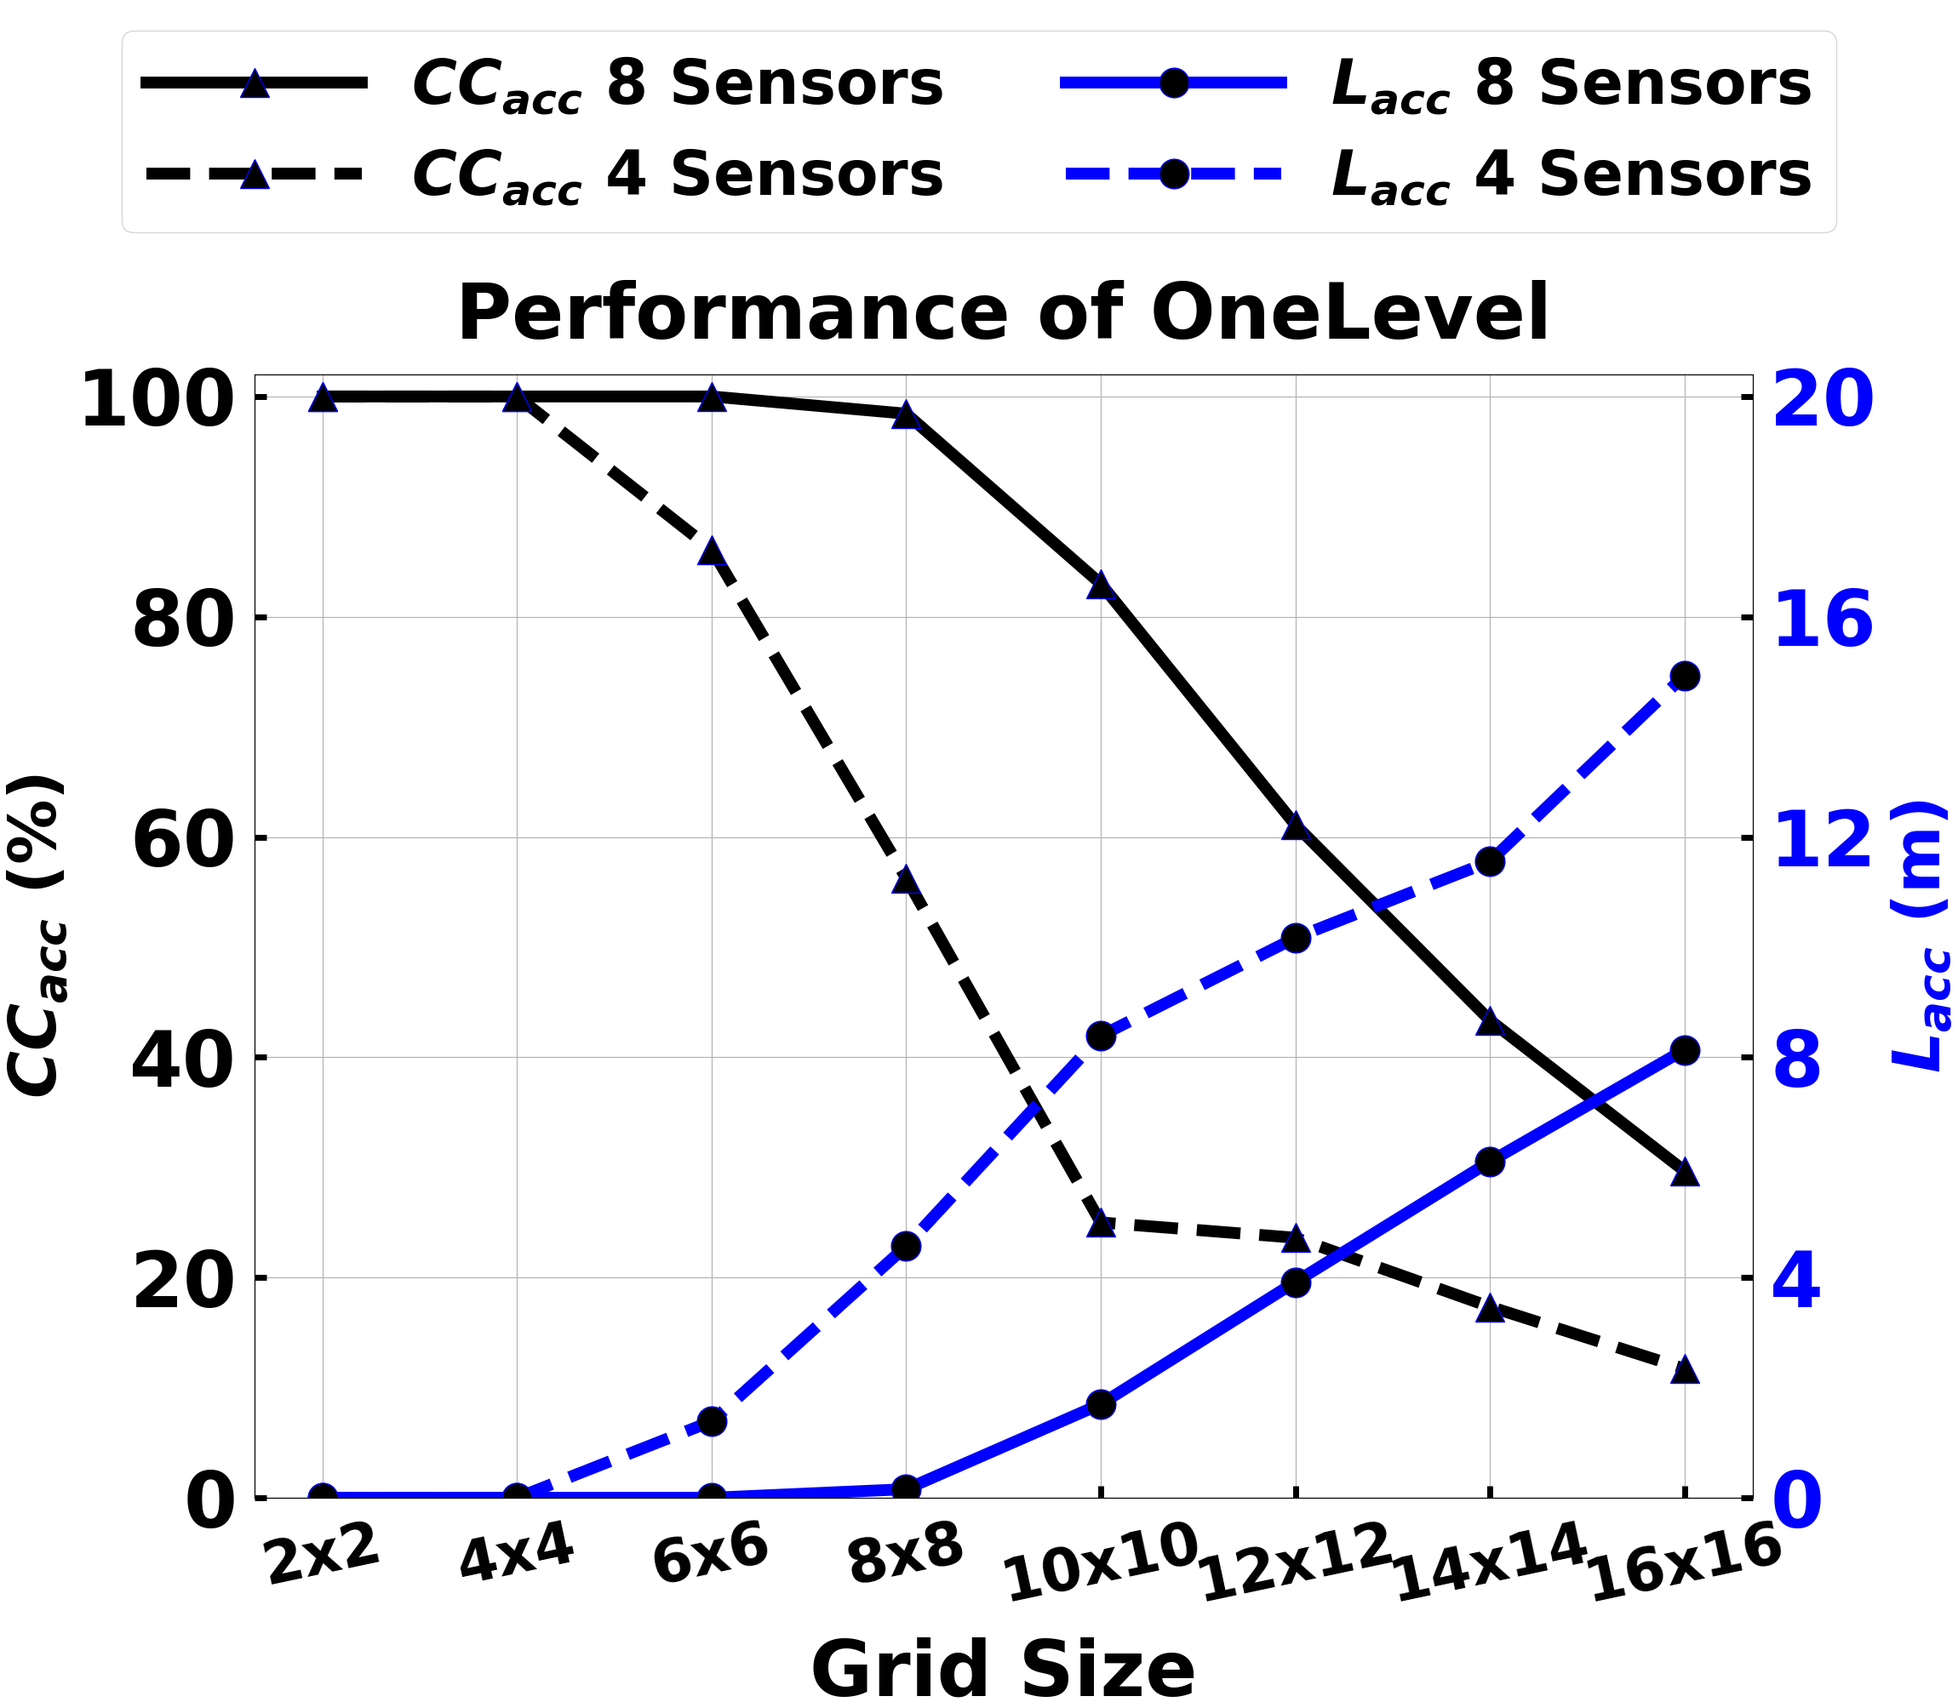
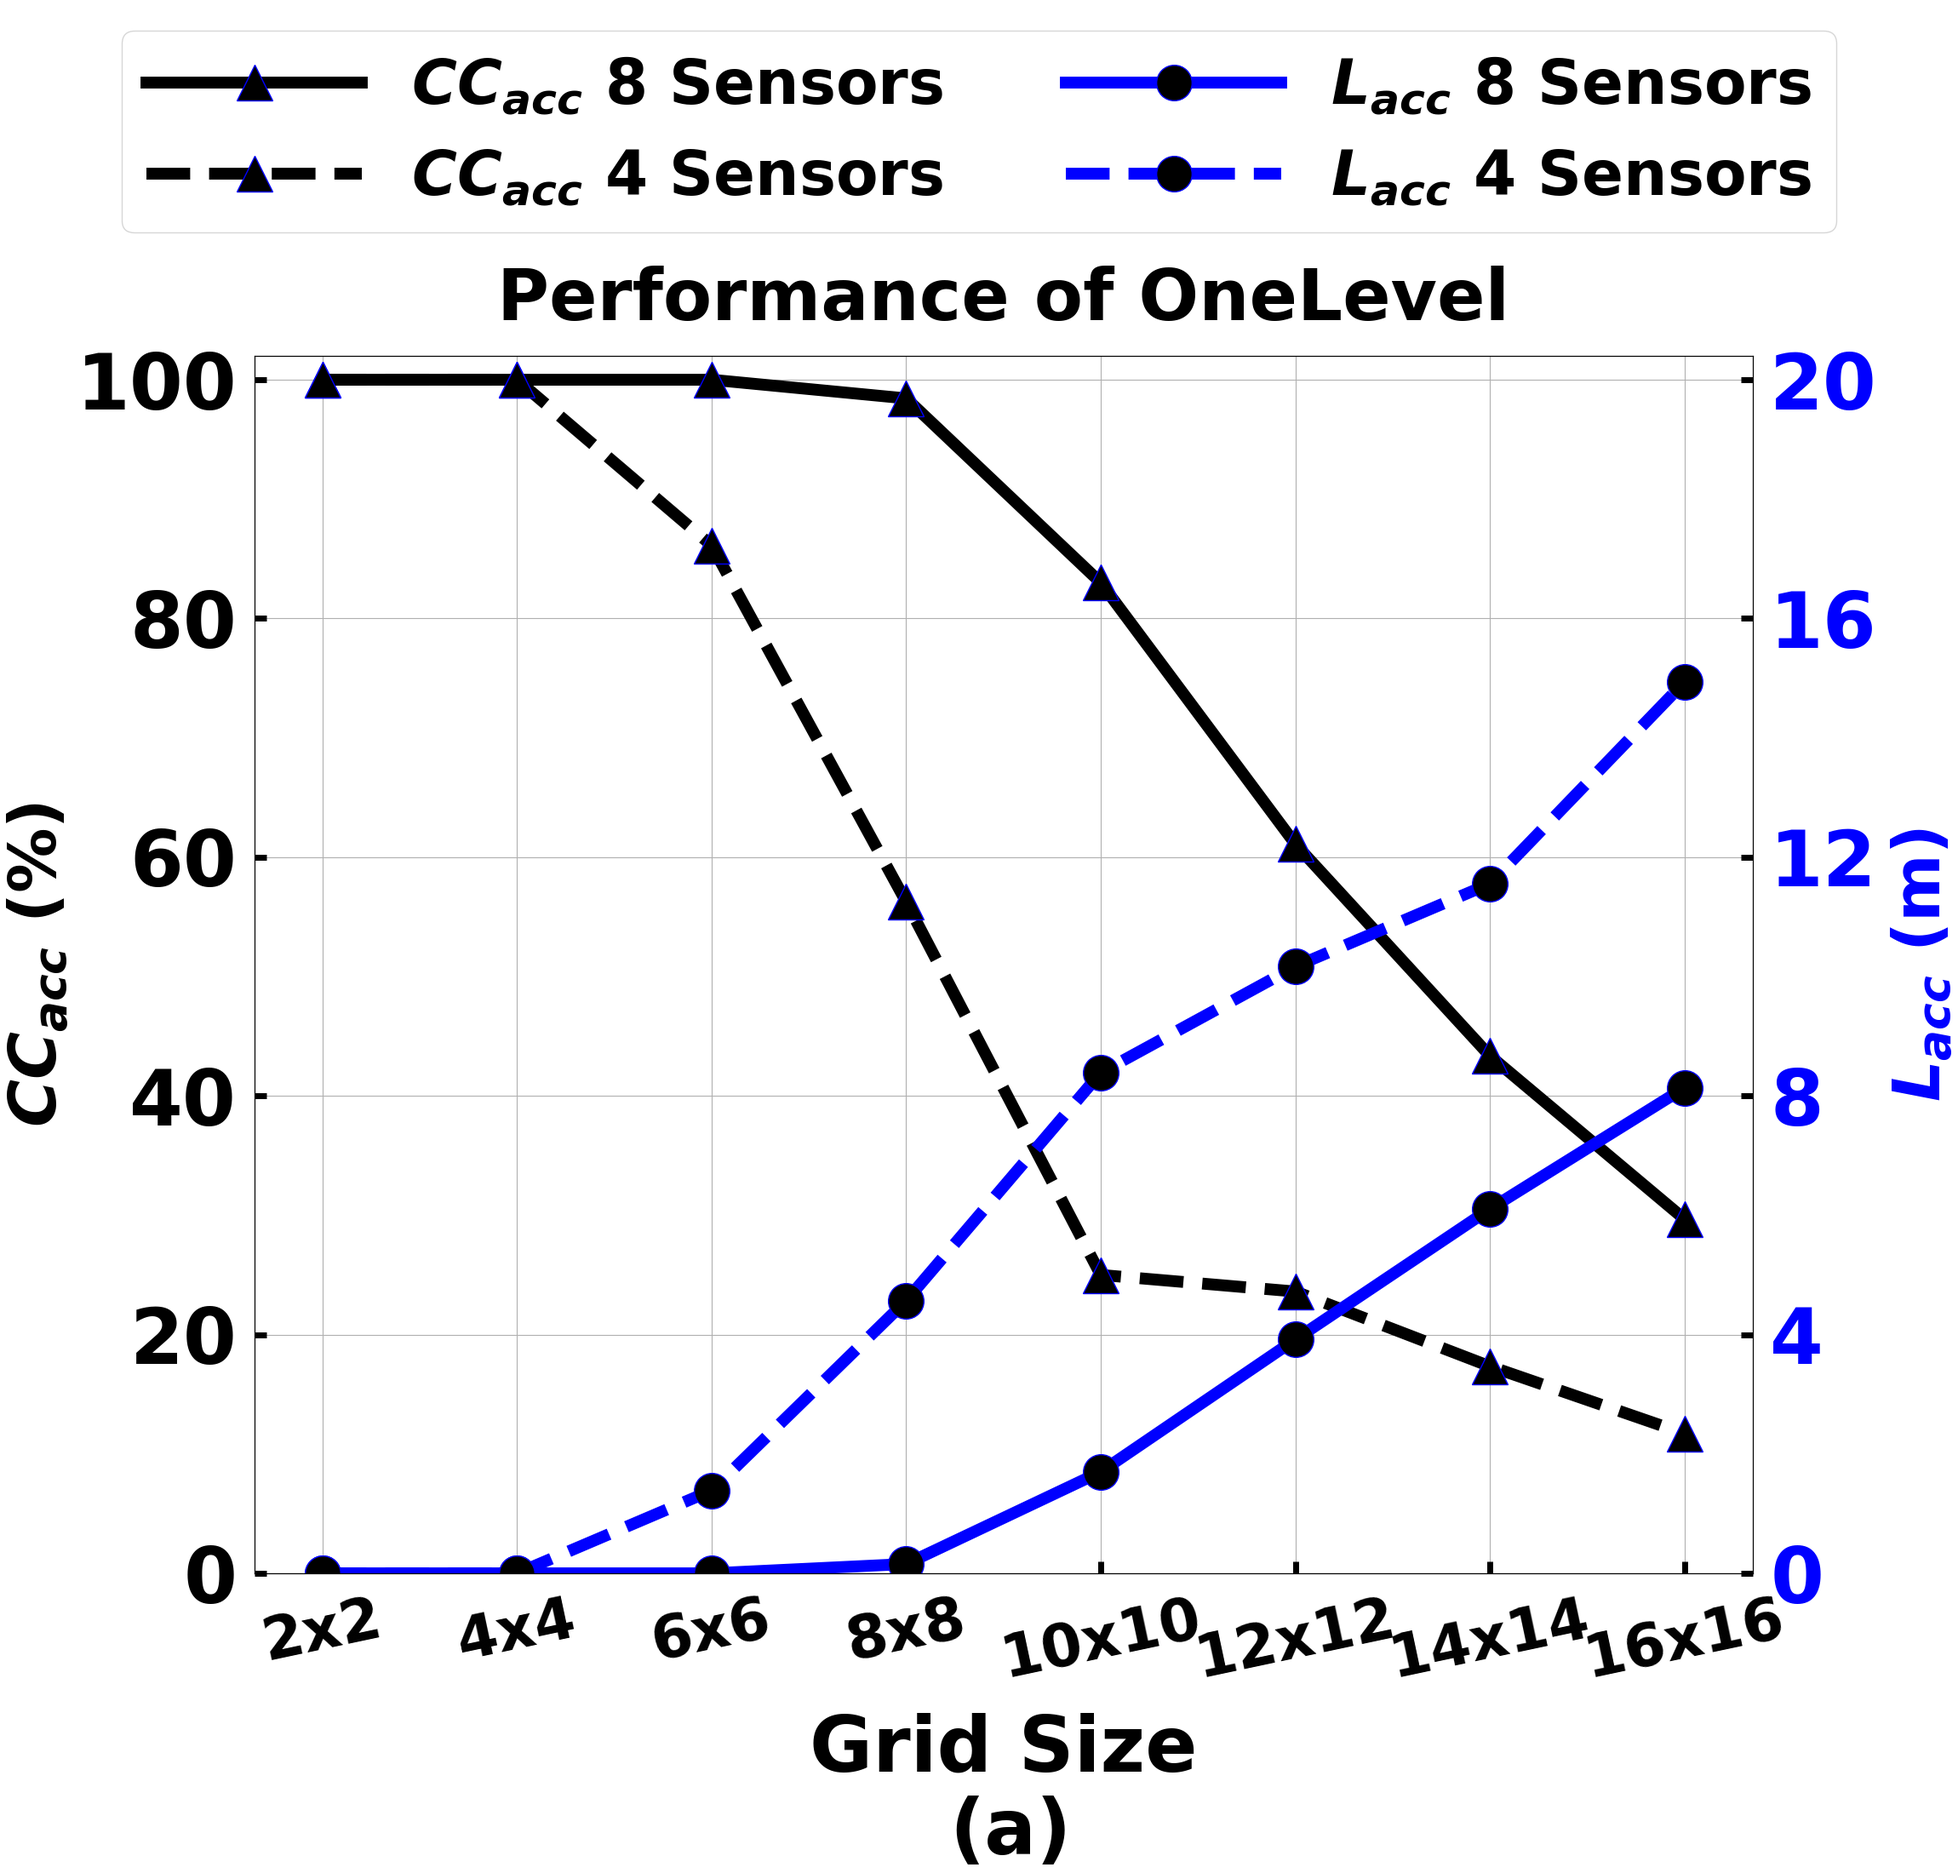
update plot

diff --git a/plot.py b/plot.py
@@ -11,7 +11,7 @@ class Plot:
 
     plt.rcParams['font.size'] = 65
     plt.rcParams['lines.linewidth'] = 10
-    plt.rcParams['lines.markersize'] = 25
+    plt.rcParams['lines.markersize'] = 30
     plt.rcParams['font.weight'] = 'bold'
     plt.rcParams['axes.labelweight'] = 'bold'
 
@@ -99,8 +99,8 @@ class Plot:
 
         # step 2: plotting
         povmloc_one_color2 = 'black'
-        fig, ax1 = plt.subplots(1, 1, figsize=(23, 20))
-        fig.subplots_adjust(left=0.13, right=0.895, top=0.78, bottom=0.12)
+        fig, ax1 = plt.subplots(1, 1, figsize=(23, 22))
+        fig.subplots_adjust(left=0.13, right=0.895, top=0.81, bottom=0.16)
         ax2 = ax1.twinx()
         ax1.plot(X, y_8sen, linestyle='-',  marker='^', label="$CC_{acc}$ 8 Sensors", mfc='black', mec='b', color=povmloc_one_color2)
         ax1.plot(X, y_4sen, linestyle='--', marker='^', label="$CC_{acc}$ 4 Sensors", mfc='black', mec='b', color=povmloc_one_color2)
@@ -117,12 +117,13 @@ class Plot:
         ax1.set_ylabel('$CC_{acc}$ (%)', fontsize=55, color=povmloc_one_color2)
         ax1.set_ylim([0, 102])
         method = Plot.LEGEND['povmloc-one']
-        ax1.set_title(f'Performance of {method}', pad=30, fontsize=65, fontweight='bold')
+        ax1.set_title(f'Performance of {method}', pad=30, fontsize=60, fontweight='bold')
         # ax2
         ax2.tick_params(axis='y', pad=15, direction='in', length=10, width=5, labelcolor=Plot.COLOR['povmloc-one'])
         ax2.set_ylabel('$L_{acc}$ (m)', labelpad=10, fontsize=55, color=Plot.COLOR['povmloc-one'])
         ax2.set_ylim([0, 20.4])
         ax2.set_yticks(range(0, 21, 4))
+        plt.figtext(0.485, 0.01, '(a)')
         fig.savefig(figname)
 
 
@@ -164,8 +165,8 @@ class Plot:
         
         # step 2: plotting
         povmloc_one_color2 = 'black'
-        fig, ax1 = plt.subplots(1, 1, figsize=(23, 20))
-        fig.subplots_adjust(left=0.13, right=0.88, top=0.78, bottom=0.12)
+        fig, ax1 = plt.subplots(1, 1, figsize=(23, 22))
+        fig.subplots_adjust(left=0.13, right=0.88, top=0.81, bottom=0.16)
         ax2 = ax1.twinx()
         cc_acc = "$CC_{acc}$"
         l_acc  = "$L_{acc}$"
@@ -176,19 +177,19 @@ class Plot:
         ax2.plot(X, y_povmloc_pro_error, linestyle=Plot.LINE['povmloc-pro'],  marker='o', label=f"{l_acc} {ourpro_label}", mfc='black', mec='b', color=Plot.COLOR['povmloc-pro'])
         ax2.plot(X, y_povmloc_error,     linestyle=Plot.LINE['povmloc'],      marker='o', label=f"{l_acc} {our_label}",   mfc='black', mec='b', color=Plot.COLOR['povmloc'])
         fig.legend(ncol=2, loc='upper center', bbox_to_anchor=(0.5, 1), fontsize=52, handlelength=3.5)
-        ax1.set_xlabel('Noise', labelpad=20)
+        ax1.set_xlabel('Noise', labelpad=50)
         ax1.set_xticks(X)
         ax1.tick_params(axis='x', pad=15, direction='in', length=10, width=5, labelsize=60)
         ax1.tick_params(axis='y', pad=15, direction='in', length=10, width=5, labelsize=60)
         ax1.set_ylabel('$CC_{acc}$ (%)', fontsize=55)
         ax1.set_ylim([90, 100.2])
-        method1 = Plot.LEGEND['povmloc']
-        ax1.set_title(f'Performance of {method1}, TwoLevel-Pro', pad=30, fontsize=60, fontweight='bold')
+        ax1.set_title(f'Performance of TwoLevel, TwoLevel-Pro', pad=30, fontsize=60, fontweight='bold')
         # ax2
         ax2.tick_params(axis='y', pad=15, direction='in', length=10, width=5, labelcolor=Plot.COLOR['povmloc'])
         ax2.set_ylabel('$L_{acc}$ (m)', labelpad=10, fontsize=55, color=Plot.COLOR['povmloc'])
         ax2.set_ylim([0, 1.2])
         ax2.set_yticks(np.linspace(0, 1.2, 4))
+        plt.figtext(0.475, 0.01, '(b)')
         fig.savefig(figname)
 
 
